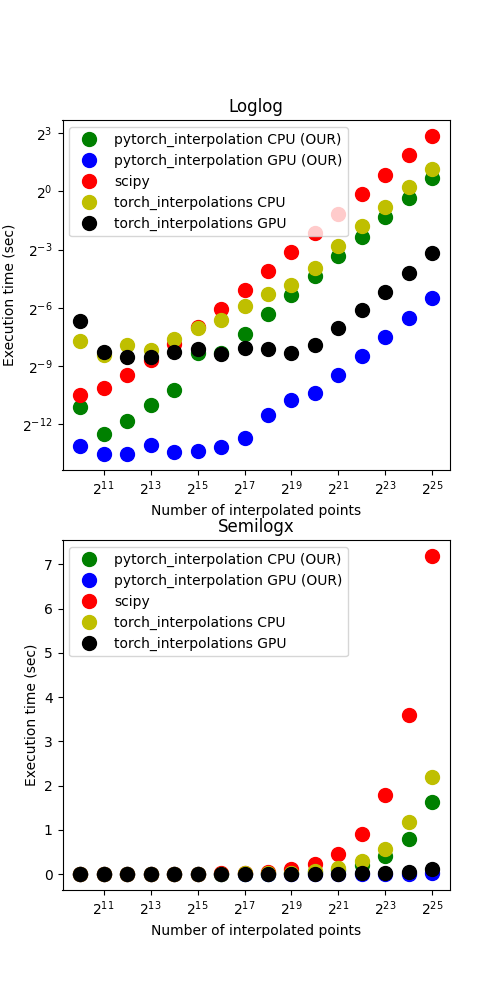
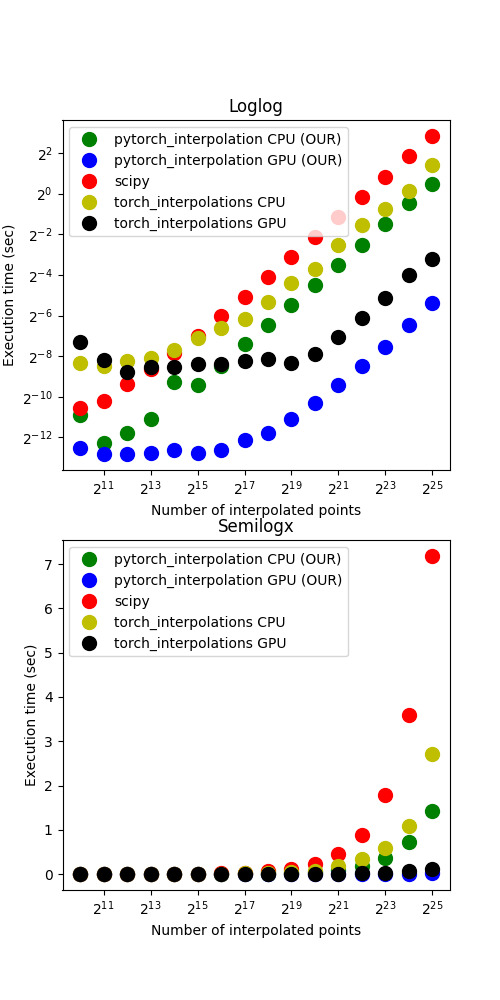
Fixed formula

diff --git a/pytorch_interp/csrc/interp.cpp b/pytorch_interp/csrc/interp.cpp
@@ -3,36 +3,39 @@
 #include <vector>
 
 namespace extension_interp {
-void bilinear_interpolation_kernel_CPU(float * __restrict__ G, const float * __restrict__ F, 
-                                        const float * __restrict__ xpts, const float * __restrict__ ypts, 
+void bilinear_interpolation_kernel_CPU(float * G, float * F, 
+                                        const float * xpts, const float * ypts, 
                                         const int M1, const int M2, const int N,
                                         const float dx, const float dy, 
                                         const float * x, const float * y)
 {
 
   for(int k=0; k<N; k++){
+    const int    ind_x  = floor((xpts[k]-x[0])/dx);
+    const int    ind_xp = ind_x+1;
 
-    const int    ind_x = floor((xpts[k]-x[0])/dx);
-    const float  a     = xpts[k]-x[ind_x];
-    const float am     = 1-a;
+    const int    ind_y  = floor((ypts[k]-y[0])/dy);
+    const int    ind_yp = ind_y+1;
 
-    const int    ind_y = floor((ypts[k]-y[0])/dy);
-    const float  b     = ypts[k]-y[ind_y];
-    const float bm     = 1-b;
-
-    float d00, d01, d10, d11;
-    if ((0 < (ind_x)   < M1)&&(0 < (ind_y)   < M2))  d00 = F[ind_x*M2+ind_y];       else    d00 = 0.f;
-    if ((0 < (ind_x+1) < M1)&&(0 < (ind_y)   < M2))  d10 = F[ind_x*M2+ind_y+1];     else    d10 = 0.f;
-    if ((0 < (ind_x)   < M1)&&(0 < (ind_y+1) < M2))  d01 = F[(ind_x+1)*M2+ind_y];   else    d01 = 0.f;
-    if ((0 < (ind_x+1) < M1)&&(0 < (ind_y+1) < M2))  d11 = F[(ind_x+1)*M2+ind_y+1]; else    d11 = 0.f;
-
-    G[k] = a*bm*d10 + am*bm*d00 + a*b*d11 + b*am*d01;
+    if ( 0 <= ind_x && ind_xp  < M1 && 0 <= ind_y && ind_yp  < M2 ) {
+      const float w11 = (x[ind_xp]-xpts[k])*(y[ind_yp]-ypts[k]);
+      const float w12 = (x[ind_xp]-xpts[k])*(ypts[k]-y[ind_y]);
+      const float w21 = (xpts[k]-x[ind_x])*(y[ind_yp]-ypts[k]);
+      const float w22 = (xpts[k]-x[ind_x])*(ypts[k]-y[ind_y]);
+      const float numerator = w11*F[ind_x*M2+ind_y] + w12*F[ind_x*M2+ind_y+1] + w21*F[(ind_x+1)*M2+ind_y] + w22*F[(ind_x+1)*M2+ind_y+1];
+      const float denominator = (x[ind_xp]-x[ind_x])*(y[ind_yp]-y[ind_y]);
+      G[k] = numerator/denominator;
+    }
+    else{
+      G[k] = 0.f;
+    }
   }
 }
 
 
-at::Tensor bilinear_interp_cpu(
+void bilinear_interp_cpu(
     const at::Tensor& F, 
+    at::Tensor& G, 
     const at::Tensor& x,
     const at::Tensor& y,
     const at::Tensor& xpt,
@@ -44,13 +47,13 @@ at::Tensor bilinear_interp_cpu(
   ) {
 
   at::Tensor F_contig = F.contiguous();
-  const float* F_ptr = F_contig.data_ptr<float>();
+  float* F_ptr = F_contig.data_ptr<float>();
 
   at::Tensor xpt_contig = xpt.contiguous();
-  const float* xpt_ptr = xpt_contig.data_ptr<float>();
+  float* xpt_ptr = xpt_contig.data_ptr<float>();
 
   at::Tensor ypt_contig = ypt.contiguous();
-  const float* ypt_ptr = ypt_contig.data_ptr<float>();
+  float* ypt_ptr = ypt_contig.data_ptr<float>();
 
   at::Tensor x_contig = x.contiguous();
   const float* x_ptr = x_contig.data_ptr<float>();
@@ -58,17 +61,14 @@ at::Tensor bilinear_interp_cpu(
   at::Tensor y_contig = y.contiguous();
   const float* y_ptr = y_contig.data_ptr<float>();
 
-  const int N  = xpt_contig.numel();
-
-  at::Tensor G = torch::empty(xpt_contig.sizes(), xpt_contig.options());
   float* G_ptr = G.data_ptr<float>();
+  const int N  = G.numel();
 
   bilinear_interpolation_kernel_CPU(G_ptr, F_ptr, 
                                     xpt_ptr, ypt_ptr, 
                                     M1, M2, N,
                                     dx, dy,
                                     x_ptr, y_ptr);
-  return G;
 }
 
 // Registers _C as a Python extension module.
@@ -76,7 +76,7 @@ PYBIND11_MODULE(TORCH_EXTENSION_NAME, m) {}
 
 // Defines the operators
 TORCH_LIBRARY(extension_interp, m) {
-  m.def("bilinear_interp(Tensor F, Tensor x, Tensor y, Tensor xpt, Tensor ypt, int M1, int M2, float dx, float dy) -> Tensor");
+  m.def("bilinear_interp(Tensor F, Tensor G , Tensor x, Tensor y, Tensor xpt, Tensor ypt, int M1, int M2, float dx, float dy) -> ()");
 }
 
 // Registers CPU implementation

diff --git a/example.py b/example.py
@@ -1,42 +1,39 @@
 
 from pytorch_interp import RegularGridInterpolator as my_rgi
 from scipy.interpolate import RegularGridInterpolator as scipy_rgi
-
 import torch
 import numpy as np
 import matplotlib.pyplot as plt
-torch.cuda.empty_cache()
 
-device="cuda"
+device="cpu"
+torch.set_num_threads(8)
 
-M1  = 1000
-M2  = 500
-N   = 2**15
-x1  = -2
-x2  = 12
-y1  = -1.2
-y2  = 6
+M1  = 2**5
+M2  = 2**5
+N   = 2**10
+x1  = -4.23
+x2  = 12.6
+y1  = -2.3
+y2  = 2.2
 x   = torch.linspace(x1,x2,M1).to(device)
 y   = torch.linspace(y1,y2,M2).to(device)
 xpt = (x2-x1)*torch.rand(N)+x1
-xpt=xpt.to(device)
+xpt = xpt.to(device)
 ypt = (y2-y1)*torch.rand(N)+y1
-ypt=ypt.to(device)
+ypt = ypt.to(device)
 X, Y = torch.meshgrid(x, y, indexing="ij")
 
 F=torch.sin(X)*torch.sin(Y)
 
 # scipy implementation
-interp_spline = scipy_rgi((x.cpu().numpy(), y.cpu().numpy()), F.cpu().numpy()) 
-G1 = interp_spline(np.array([xpt.cpu().numpy(), ypt.cpu().numpy()]).T)
+interp1 = scipy_rgi((x.cpu().numpy(), y.cpu().numpy()), F.cpu().numpy(),bounds_error=False, fill_value=0.0) 
+G1 = interp1(np.array([xpt.cpu().numpy(), ypt.cpu().numpy()]).T)
 
-torch.cuda.empty_cache()
+# implementation
+interp2 = my_rgi((x, y), F)
+G2 = interp2(xpt,ypt)
 
-# our implementation
-interp_spline = my_rgi((x, y), F)
-G2 = interp_spline(xpt,ypt)
-
-fig, ax = plt.subplots(nrows=1, ncols=3, figsize=(12,3))
+fig, ax = plt.subplots(nrows=1, ncols=3, figsize=(18,6))
 
 vmin,vmax = (fun(np.concatenate([F.cpu().numpy().flatten(),G1])) for fun in (np.min,np.max))
 

diff --git a/pytorch_interp/interp.py b/pytorch_interp/interp.py
@@ -1,7 +1,6 @@
 
-import torch
 from pytorch_interp import bilinear_interp
-
+import torch
 
 class RegularGridInterpolator:
 
@@ -11,21 +10,21 @@ class RegularGridInterpolator:
         (x,y) = points
         self.x = x
         self.y = y
-        
-        assert isinstance(F, torch.Tensor)
-        self.F = F
-        self.G = torch.zeros(2**10)
-
         self.dx = float(x[1]-x[0])
         self.dy = float(y[1]-y[0])
         self.M1 = len(x)
         self.M2 = len(y)
+        self.F = F
+
 
     def __call__(self, xpt, ypt):
-        return bilinear_interp(
-            self.F, 
+        G = torch.zeros_like(xpt)
+        # G = torch.empty(xpt.size(), dtype=torch.float32)
+        bilinear_interp(
+            self.F, G,
             self.x, self.y,
             xpt, ypt,
             self.M1, self.M2,
             self.dx, self.dy,
         )
+        return G

diff --git a/pytorch_interp/ops.py b/pytorch_interp/ops.py
@@ -4,11 +4,11 @@ from torch import Tensor
 __all__ = ["bilinear_interp"]
 
 def bilinear_interp(
-                    F: Tensor, 
+                    F: Tensor, G: Tensor, 
                     x: Tensor, y: Tensor,
                     xpt: Tensor, ypt: Tensor,
                     M1: int, M2: int,
                     dx: float, dy: float
                     ) -> Tensor:
     """Bilinear interpolation"""
-    return torch.ops.extension_interp.bilinear_interp.default(F,x,y,xpt,ypt,M1,M2,dx,dy)
+    return torch.ops.extension_interp.bilinear_interp.default(F,G,x,y,xpt,ypt,M1,M2,dx,dy)

diff --git a/README.md b/README.md
@@ -56,4 +56,4 @@ The script `performance.py` tests the performance test for pytorch_interp in cpu
 </p>
 Our implementation outperformes all others libraries. This is because we use precompiled C++/CUDA code does not require type checking. In addition our implementation allow for larger batch sizes than torch_interpolations in CUDA (we could test up to <= 2^29 query points, whereas torch_interpolations supported <= 2^27 query points). 
 
-All tests are done on a 11th Gen Intel(R) Core(TM) i7-11700 @ 2.50GHz CPU and a NVIDIA GeForce RTX 3060 GPU
+All tests are done on a 11th Gen Intel(R) Core(TM) i7-11700 @ 2.50GHz CPU and a NVIDIA GeForce RTX 3060 GPU. For the CPU performance tests, 8 threads are run in parallel in Torch.
